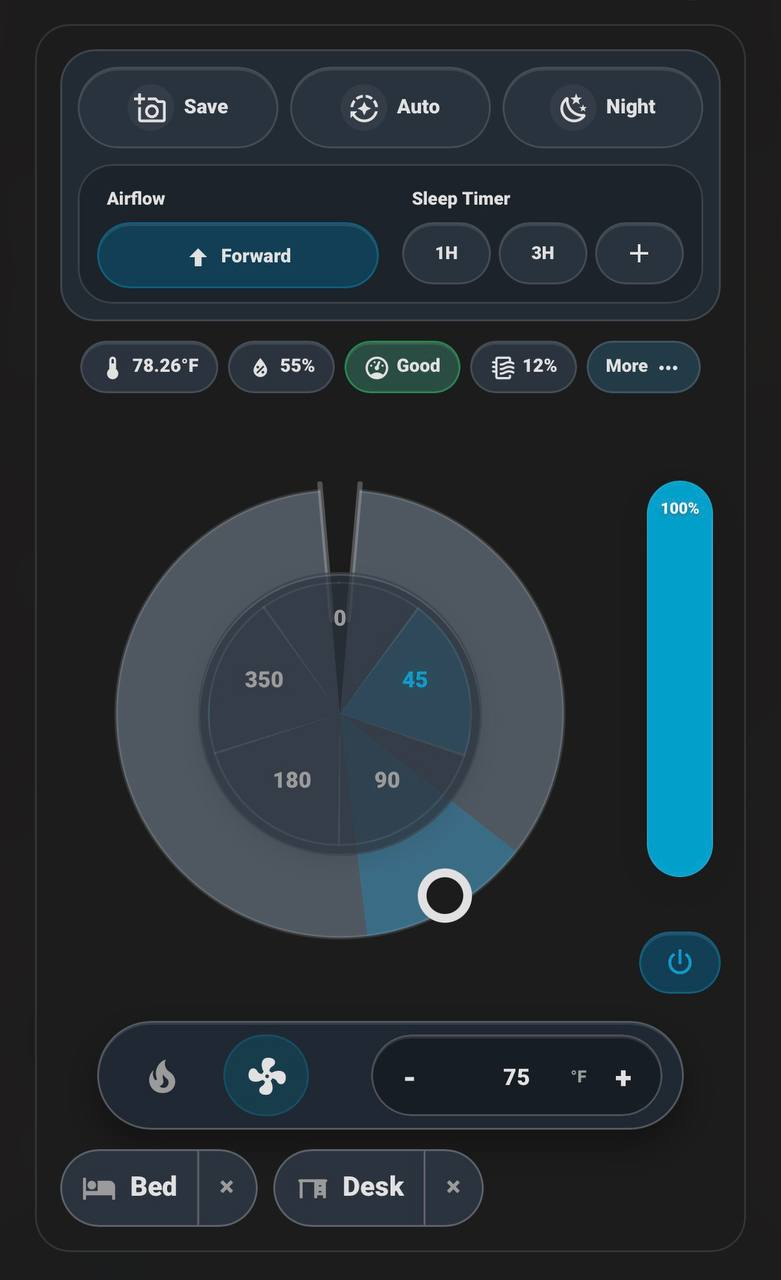
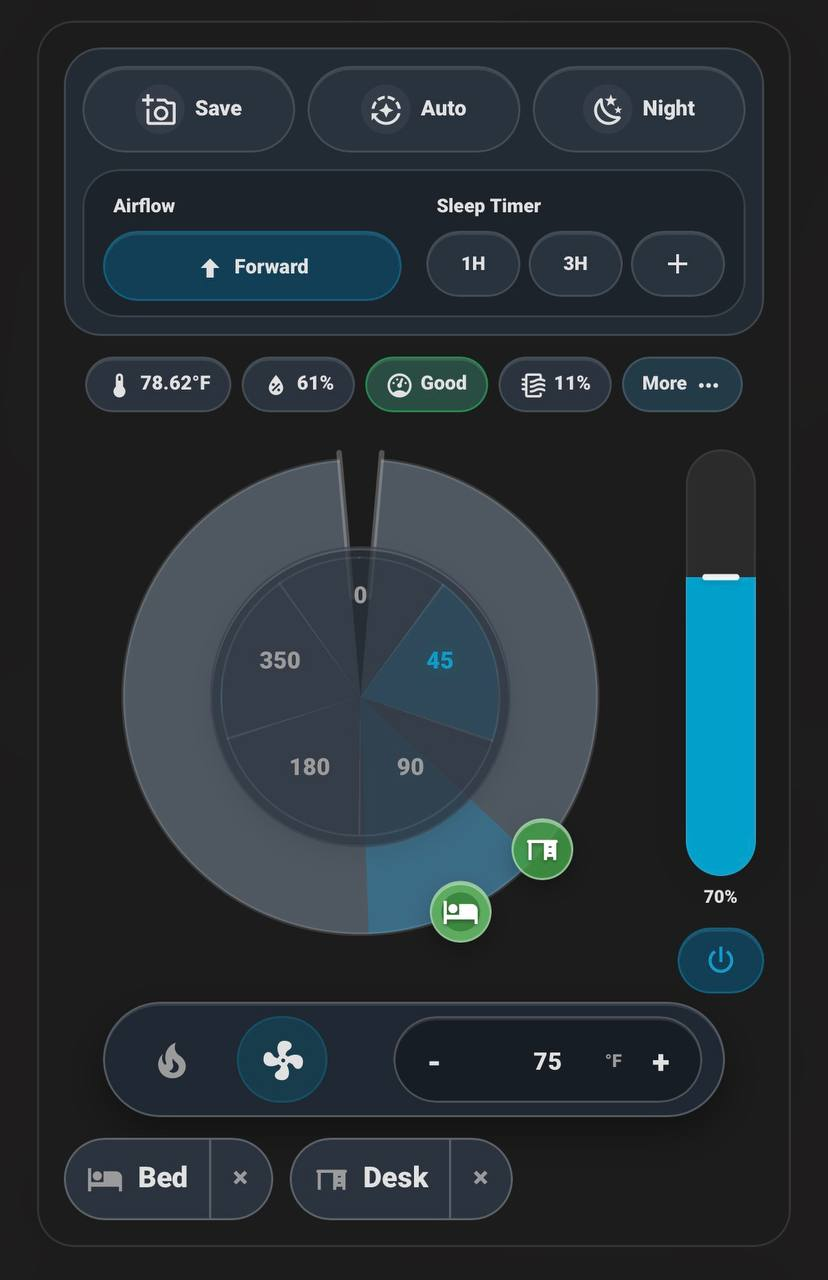
chore: prepare 0.1.2 release

diff --git a/CHANGELOG.md b/CHANGELOG.md
@@ -4,6 +4,12 @@
 
 No unreleased changes.
 
+## 0.1.2 - 2026-05-09
+
+- Show saved direction presets as icon markers on the direction wheel.
+- Align preset markers and the draggable direction handle to the outer wheel radius.
+- Refresh the README preview image with the current direction preset UI.
+
 ## 0.1.1 - 2026-05-07
 
 - Move the airflow speed percentage out of the vertical slider rail and place it between the slider and power button.